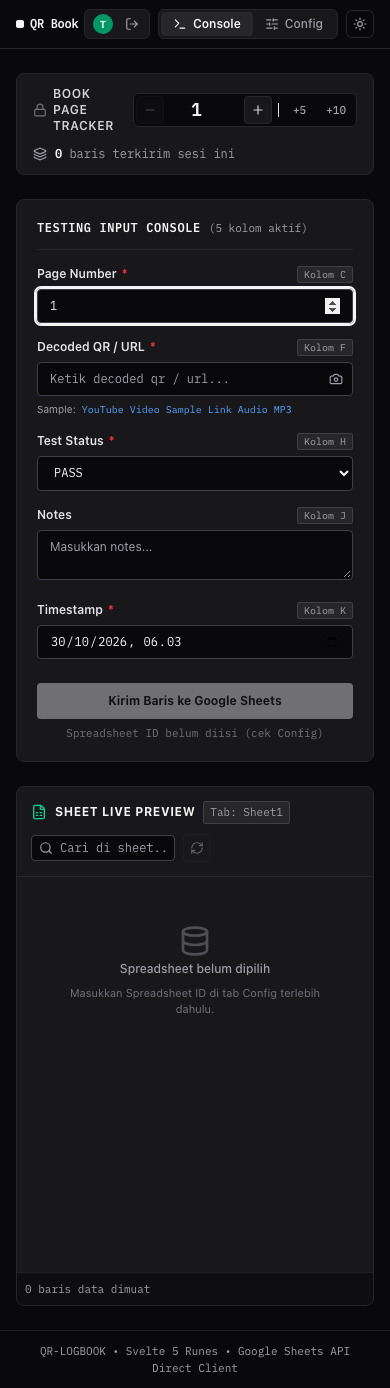
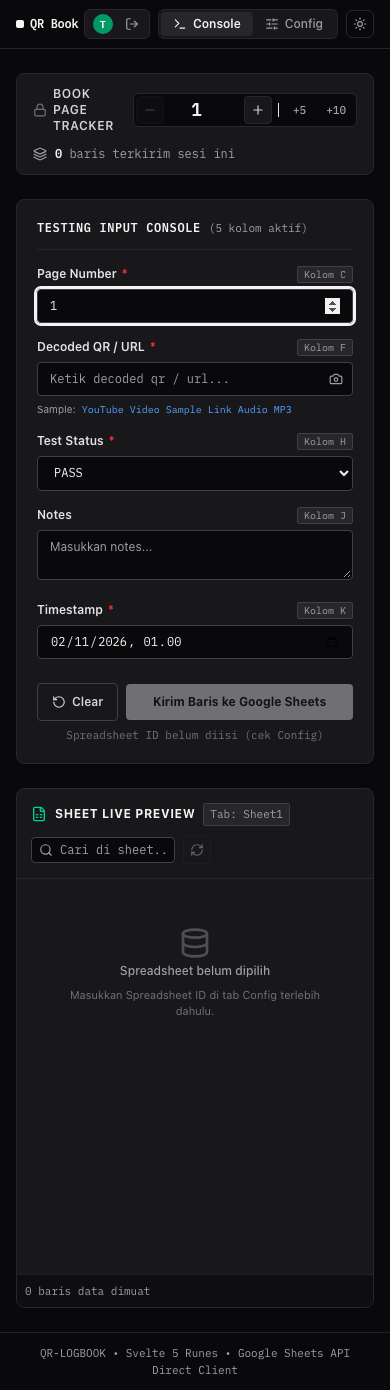
feat(workspace): add Clear button functionality to reset form inputs

diff --git a/src/lib/components/Workspace.svelte b/src/lib/components/Workspace.svelte
@@ -12,7 +12,8 @@
     CameraOff,
     CheckCircle2,
     AlertCircle,
-    Undo2
+    Undo2,
+    RotateCcw
   } from '@lucide/svelte';
 
   let { onRecordSubmitted }: { onRecordSubmitted?: () => void } = $props();
@@ -141,6 +142,11 @@
         formValues[f.id] = f.type === 'boolean' ? false : '';
       }
     }
+  }
+
+  function handleClearForm() {
+    stopCamera();
+    initDefaultValues();
   }
 
   onDestroy(() => {
@@ -325,20 +331,6 @@
       onRecordSubmitted?.();
 
       startUndoCountdown(newRecord);
-
-      // Auto clear input fields (retain page number and today date)
-      const todayIso = new Date().toISOString().split('T')[0];
-      for (const f of activeFields) {
-        if (f.id !== 'pageNumber') {
-          if (f.type === 'boolean') {
-            formValues[f.id] = false;
-          } else if (f.type === 'date') {
-            formValues[f.id] = todayIso;
-          } else {
-            formValues[f.id] = '';
-          }
-        }
-      }
     } catch (err: unknown) {
       const errMsg = err instanceof Error ? err.message : 'Gagal menyimpan ke Google Sheets';
       appState.updateRecordStatus(newRecord.recordId, 'failed', errMsg);
@@ -547,22 +539,34 @@
       </div>
     {/if}
 
-    <!-- Submit Button -->
+    <!-- Submit & Clear Buttons -->
     <div class="pt-2">
-      <button
-        type="submit"
-        disabled={isSubmitting || !!disabledReason}
-        class="w-full flex items-center justify-center gap-2 py-2.5 px-4 text-xs font-bold rounded-sm bg-zinc-900 text-white dark:bg-zinc-100 dark:text-zinc-950 hover:bg-zinc-800 dark:hover:bg-zinc-200 transition-colors shadow-2xs disabled:opacity-40 disabled:cursor-not-allowed cursor-pointer"
-        title={disabledReason || 'Kirim baris ke Google Sheets (Ctrl+Enter)'}
-      >
-        {#if isSubmitting}
-          <div class="w-3.5 h-3.5 border-2 border-white/40 dark:border-black/40 border-t-white dark:border-t-black rounded-full animate-spin"></div>
-          <span>Menyimpan ke Sheets...</span>
-        {:else}
-          <span>Kirim Baris ke Google Sheets</span>
-          <kbd class="hidden sm:inline-block text-[10px] opacity-60 font-mono-data ml-1">Ctrl+Enter</kbd>
-        {/if}
-      </button>
+      <div class="flex items-center gap-2">
+        <button
+          type="button"
+          onclick={handleClearForm}
+          class="flex items-center justify-center gap-1.5 py-2.5 px-3.5 text-xs font-semibold rounded-sm border border-zinc-300 dark:border-zinc-700 text-zinc-700 dark:text-zinc-300 hover:bg-zinc-100 dark:hover:bg-zinc-800 transition-colors cursor-pointer"
+          title="Kosongkan form input"
+        >
+          <RotateCcw class="w-3.5 h-3.5" />
+          <span>Clear</span>
+        </button>
+
+        <button
+          type="submit"
+          disabled={isSubmitting || !!disabledReason}
+          class="flex-1 flex items-center justify-center gap-2 py-2.5 px-4 text-xs font-bold rounded-sm bg-zinc-900 text-white dark:bg-zinc-100 dark:text-zinc-950 hover:bg-zinc-800 dark:hover:bg-zinc-200 transition-colors shadow-2xs disabled:opacity-40 disabled:cursor-not-allowed cursor-pointer"
+          title={disabledReason || 'Kirim baris ke Google Sheets (Ctrl+Enter)'}
+        >
+          {#if isSubmitting}
+            <div class="w-3.5 h-3.5 border-2 border-white/40 dark:border-black/40 border-t-white dark:border-t-black rounded-full animate-spin"></div>
+            <span>Menyimpan ke Sheets...</span>
+          {:else}
+            <span>Kirim Baris ke Google Sheets</span>
+            <kbd class="hidden sm:inline-block text-[10px] opacity-60 font-mono-data ml-1">Ctrl+Enter</kbd>
+          {/if}
+        </button>
+      </div>
 
       {#if disabledReason}
         <p class="text-[11px] text-zinc-400 dark:text-zinc-500 font-mono-data text-center mt-1.5">

diff --git a/e2e/qr-workflow.spec.ts b/e2e/qr-workflow.spec.ts
@@ -42,6 +42,10 @@ test.describe('QR Book Tester Workflow', () => {
     await page.getByRole('button', { name: /Console/ }).click();
     await expect(page.locator('text=Book Page Tracker')).toBeVisible();
 
+    // Verify Clear button is present
+    const clearBtn = page.getByRole('button', { name: 'Clear' });
+    await expect(clearBtn).toBeVisible();
+
     // 7. Toggle Theme
     const themeBtn = page.getByRole('button', { name: 'Toggle dark/light theme' });
     await themeBtn.click();
